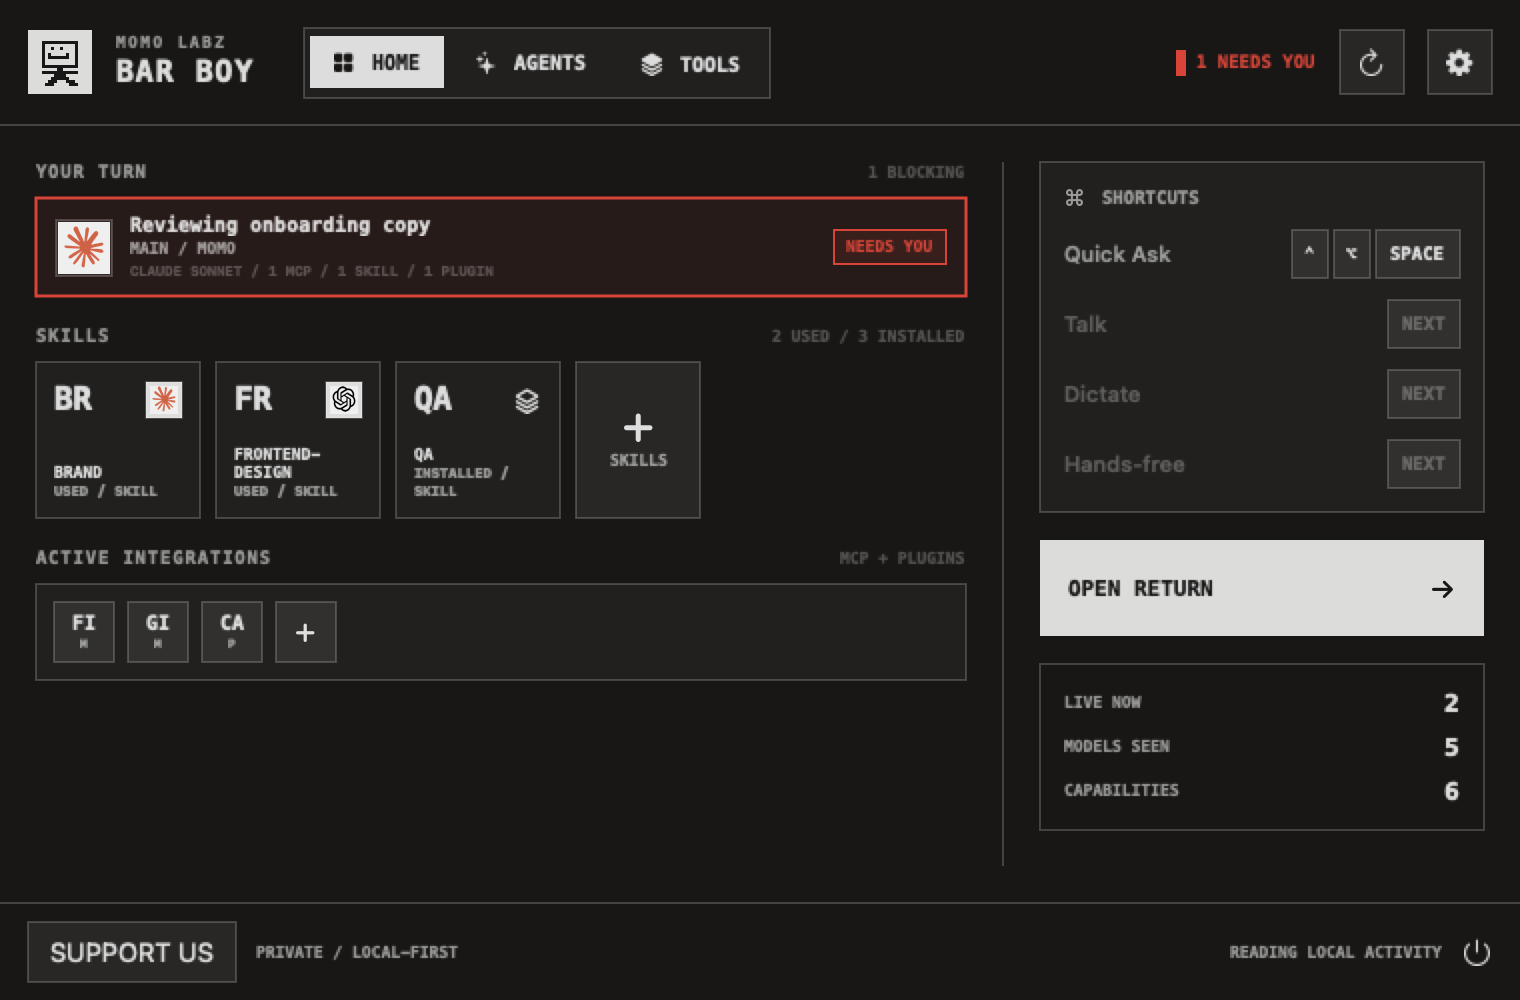
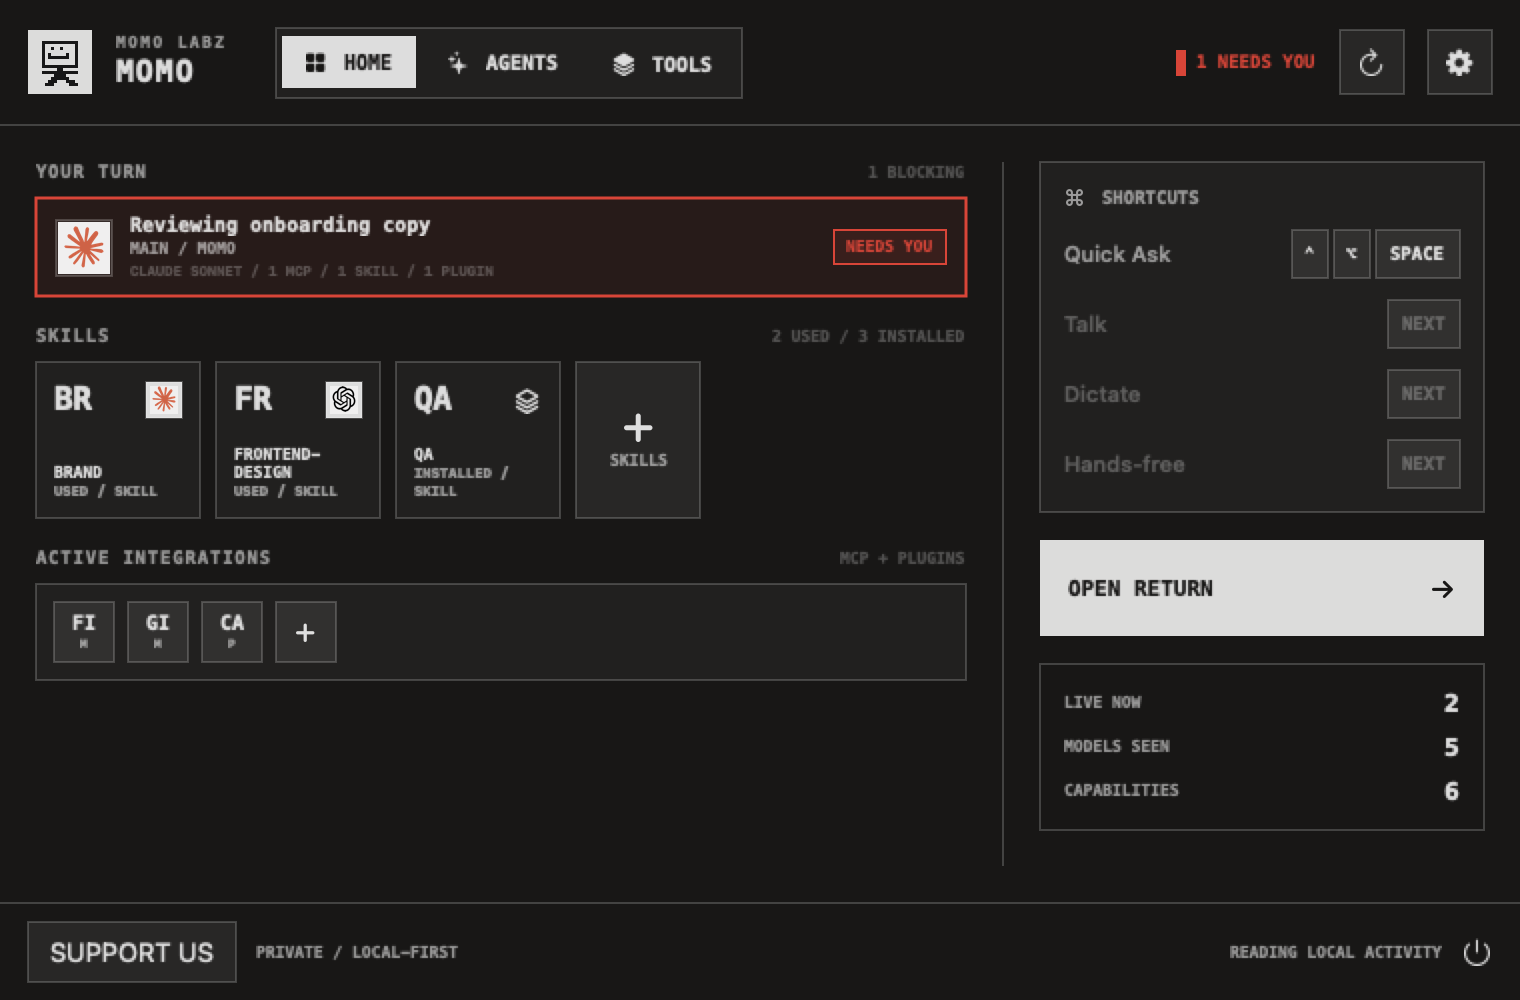
feat: rename the app to MOMO and compact the popup

Changed region(s): [[0.0618, 0.031, 0.3711, 0.093], [0.402, 0.031, 0.4947, 0.093]]

diff --git a/Sources/DashboardView.swift b/Sources/DashboardView.swift
@@ -65,7 +65,7 @@ struct DashboardView: View {
             PixelBarBoyMark(size: 32, tile: true)
             VStack(alignment: .leading, spacing: 1) {
                 Text("MOMO LABZ").font(BarBoyStyle.microLabel).tracking(1.35).foregroundStyle(.secondary)
-                Text("BAR BOY").font(BarBoyStyle.display).tracking(0.9)
+                Text("MOMO").font(BarBoyStyle.display).tracking(0.9)
             }
             HStack(spacing: 4) {
                 ForEach(DashboardTab.allCases) { item in
@@ -394,7 +394,7 @@ struct DashboardView: View {
                 Text(lastUpdateLabel.uppercased()).font(BarBoyStyle.microLabel).foregroundStyle(.secondary)
             }
             Button { NSApplication.shared.terminate(nil) } label: { Image(systemName: "power") }
-                .buttonStyle(.plain).help("Quit BAR BOY")
+                .buttonStyle(.plain).help("Quit MOMO")
         }
         .padding(.horizontal, 14)
         .frame(height: 48)
@@ -422,6 +422,8 @@ struct DashboardView: View {
 }
 
 struct CompactDashboardView: View {
+    static let canvasSize = CGSize(width: 430, height: 68)
+
     var refreshOnAppear = true
     var animateMomo = true
     @EnvironmentObject private var monitor: ActivityMonitor
@@ -432,41 +434,27 @@ struct CompactDashboardView: View {
         monitor.snapshots.filter { preferences.isEnabled($0.provider) }
     }
 
-    private var urgentCount: Int { snapshots.reduce(0) { $0 + $1.needsAttentionCount } }
-
     var body: some View {
-        VStack(spacing: 0) {
-            HStack(spacing: 10) {
-                AnimatedMomoMark(size: 28, animated: animateMomo)
-                VStack(alignment: .leading, spacing: 1) {
-                    Text("MOMO LABZ").font(BarBoyStyle.microLabel).tracking(1.2).foregroundStyle(.secondary)
-                    Text("MODELS").font(BarBoyStyle.display)
-                }
-                Spacer()
-                if urgentCount > 0 {
-                    Text("!\(urgentCount)").font(BarBoyStyle.alertLabel).foregroundStyle(BarBoyStyle.coral)
-                        .accessibilityLabel("\(urgentCount) sessions need you")
-                }
-                Button(action: expand) {
-                    Label("EXPAND", systemImage: "arrow.up.left.and.arrow.down.right")
-                        .font(BarBoyStyle.microLabel)
-                }
-                .barBoyButton()
-                .help("Open the full BAR BOY hub")
-            }
-            .padding(.horizontal, 12)
-            .frame(height: 52)
-
-            Rectangle().fill(BarBoyStyle.hairline).frame(height: 1)
-
+        HStack(spacing: 8) {
+            AnimatedMomoMark(size: 28, animated: animateMomo)
+                .help("MOMO by Momo Labz")
+            Rectangle().fill(BarBoyStyle.hairline).frame(width: 1, height: 36)
             HStack(spacing: 7) {
                 ForEach(snapshots) { snapshot in
                     CompactProviderCell(snapshot: snapshot)
                 }
             }
-            .padding(12)
+            .frame(maxWidth: .infinity)
+            Rectangle().fill(BarBoyStyle.hairline).frame(width: 1, height: 36)
+            Button(action: expand) {
+                Label("EXPAND", systemImage: "arrow.up.left.and.arrow.down.right")
+                    .font(BarBoyStyle.microLabel)
+            }
+            .barBoyButton()
+            .help("Open the full MOMO hub")
         }
-        .frame(width: 430, height: 154)
+        .padding(.horizontal, 9)
+        .frame(width: Self.canvasSize.width, height: Self.canvasSize.height)
         .background(BarBoyStyle.panel)
         .task { if refreshOnAppear { monitor.refresh() } }
     }
@@ -482,22 +470,28 @@ private struct CompactProviderCell: View {
     let snapshot: ProviderSnapshot
 
     var body: some View {
-        VStack(spacing: 5) {
+        VStack(spacing: 3) {
             ZStack(alignment: .topTrailing) {
-                ProviderMark(provider: snapshot.provider, size: 30, active: snapshot.activeCount > 0)
+                ProviderMark(provider: snapshot.provider, size: 25, active: snapshot.activeCount > 0)
                 if snapshot.needsAttentionCount > 0 {
-                    Rectangle().fill(BarBoyStyle.coral).frame(width: 5, height: 12).offset(x: 4, y: -3)
+                    Rectangle().fill(BarBoyStyle.coral).frame(width: 4, height: 10).offset(x: 3, y: -2)
                 }
             }
-            Text(snapshot.provider.name.uppercased()).font(BarBoyStyle.microLabel).lineLimit(1)
-            Text(snapshot.usageText.uppercased()).font(.system(size: 7, weight: .bold, design: .monospaced))
-                .foregroundStyle(.secondary).lineLimit(1)
+            Text(compactUsage)
+                .font(.system(size: 7, weight: .bold, design: .monospaced))
+                .foregroundStyle(snapshot.needsAttentionCount > 0 ? BarBoyStyle.coral : .secondary)
+                .lineLimit(1)
+                .minimumScaleFactor(0.72)
         }
-        .frame(maxWidth: .infinity, minHeight: 72)
-        .background(BarBoyStyle.surface)
-        .overlay(Rectangle().stroke(snapshot.needsAttentionCount > 0 ? BarBoyStyle.coral : BarBoyStyle.hairline, lineWidth: 1))
+        .frame(maxWidth: .infinity, minHeight: 44)
+        .contentShape(Rectangle())
+        .help("\(snapshot.provider.name): \(snapshot.usageText), \(snapshot.activeCount) active")
         .accessibilityElement(children: .ignore)
         .accessibilityLabel("\(snapshot.provider.name), \(snapshot.usageText), \(snapshot.activeCount) active")
+    }
+
+    private var compactUsage: String {
+        snapshot.isInstalled ? snapshot.usageText.uppercased() : "NO APP"
     }
 }
 

diff --git a/Tests/BarBoyTests.swift b/Tests/BarBoyTests.swift
@@ -6,6 +6,14 @@ import XCTest
 
 @MainActor
 final class BarBoyTests: XCTestCase {
+    func testMenuBarStatusIconIsVisibleTemplateArtwork() {
+        let icon = MenuBarLabelView.statusIcon
+
+        XCTAssertTrue(icon.isTemplate)
+        XCTAssertEqual(icon.size, NSSize(width: 18, height: 18))
+        XCTAssertFalse(icon.tiffRepresentation?.isEmpty ?? true)
+    }
+
     func testProviderCoverage() {
         XCTAssertEqual(AIProvider.allCases.map(\.name), ["Codex", "Claude", "Gemini", "Cursor", "Grok"])
         XCTAssertTrue(AIProvider.allCases.allSatisfy { !$0.sessionRoots.isEmpty })
@@ -331,7 +339,7 @@ final class BarBoyTests: XCTestCase {
     }
 
     func testRunningSessionWinsAgeLabel() {
-        let session = AgentSession(id: "1", provider: .claude, role: .subagent, title: "Test", detail: "", project: "BAR BOY", updatedAt: .distantPast, isRunning: true, processID: 123, tokens: nil)
+        let session = AgentSession(id: "1", provider: .claude, role: .subagent, title: "Test", detail: "", project: "MOMO", updatedAt: .distantPast, isRunning: true, processID: 123, tokens: nil)
         XCTAssertEqual(session.ageLabel, "LIVE")
     }
 
@@ -376,8 +384,8 @@ final class BarBoyTests: XCTestCase {
 
         let now = Date()
         let sessions = [
-            AgentSession(id: "codex-main", provider: .codex, role: .main, title: "Building the BAR BOY menu app", detail: "Implementing the local activity dashboard", project: "Bar-Boy", updatedAt: now, isRunning: true, processID: 88, tokens: 12_400, model: "GPT-5.6", mcpServers: ["github", "web"], skills: ["frontend-design"], plugins: []),
-            AgentSession(id: "codex-sub", provider: .codex, role: .subagent, title: "Verifying provider adapters", detail: "Checking local session discovery", project: "Bar-Boy", updatedAt: now, isRunning: true, processID: 89, tokens: 4_800, model: "GPT-5.6", mcpServers: [], skills: ["qa"], plugins: []),
+            AgentSession(id: "codex-main", provider: .codex, role: .main, title: "Building the MOMO menu app", detail: "Implementing the local activity dashboard", project: "MOMO", updatedAt: now, isRunning: true, processID: 88, tokens: 12_400, model: "GPT-5.6", mcpServers: ["github", "web"], skills: ["frontend-design"], plugins: []),
+            AgentSession(id: "codex-sub", provider: .codex, role: .subagent, title: "Verifying provider adapters", detail: "Checking local session discovery", project: "MOMO", updatedAt: now, isRunning: true, processID: 89, tokens: 4_800, model: "GPT-5.6", mcpServers: [], skills: ["qa"], plugins: []),
             AgentSession(id: "claude-main", provider: .claude, role: .main, title: "Reviewing onboarding copy", detail: "Recent local session", project: "Momo", updatedAt: now.addingTimeInterval(-420), isRunning: false, processID: nil, tokens: 31_200, attention: .needsInput, attentionReason: "Approve the revised copy", model: "Claude Sonnet", mcpServers: ["figma"], skills: ["brand"], plugins: ["Canva"])
         ]
         let snapshots = [
@@ -443,9 +451,9 @@ final class BarBoyTests: XCTestCase {
             .environmentObject(monitor)
             .environmentObject(preferences)
             .preferredColorScheme(preferredScheme)
-            .frame(width: 430, height: 154)
+            .frame(width: CompactDashboardView.canvasSize.width, height: CompactDashboardView.canvasSize.height)
         let hostingView = NSHostingView(rootView: view)
-        hostingView.frame = NSRect(x: 0, y: 0, width: 430, height: 154)
+        hostingView.frame = NSRect(origin: .zero, size: CompactDashboardView.canvasSize)
         hostingView.appearance = NSAppearance(named: preferredScheme == .dark ? .darkAqua : .aqua)
         hostingView.layoutSubtreeIfNeeded()
         guard let bitmap = hostingView.bitmapImageRepForCachingDisplay(in: hostingView.bounds) else {

diff --git a/Sources/SettingsView.swift b/Sources/SettingsView.swift
@@ -63,7 +63,7 @@ struct SettingsView: View {
                     }
                 }
             }
-            Text("BAR BOY will use OAuth 2.1 + PKCE for compatible remote MCP servers and Keychain for tokens. It will not import browser cookies or collect ChatGPT, Claude, Cursor, Gemini, or Grok passwords.")
+            Text("MOMO will use OAuth 2.1 + PKCE for compatible remote MCP servers and Keychain for tokens. It will not import browser cookies or collect ChatGPT, Claude, Cursor, Gemini, or Grok passwords.")
                 .font(.caption).foregroundStyle(.secondary)
         }
         .padding(24)
@@ -73,7 +73,7 @@ struct SettingsView: View {
         VStack(alignment: .leading, spacing: 16) {
             VStack(alignment: .leading, spacing: 4) {
                 Text("Local providers").font(.title2.bold())
-                Text("BAR BOY reads local session files and running processes. It never asks for your account password.")
+                Text("MOMO reads local session files and running processes. It never asks for your account password.")
                     .foregroundStyle(.secondary)
             }
             VStack(spacing: 8) {
@@ -154,7 +154,7 @@ struct SettingsView: View {
             }
 
             HStack(alignment: .top, spacing: 18) {
-                QRCodeView(value: deskDisplay.displayURL?.absoluteString ?? "BAR BOY")
+                QRCodeView(value: deskDisplay.displayURL?.absoluteString ?? "MOMO")
                     .frame(width: 132, height: 132)
                     .padding(10)
                     .background(Color.white)
@@ -251,7 +251,7 @@ struct SettingsView: View {
             Image(systemName: "lock.shield")
                 .font(.system(size: 38, weight: .light))
             Text("Your work stays on your Mac").font(.title2.bold())
-            Text("BAR BOY inspects running process names and recent local session metadata only for providers you enable. It does not upload prompts, source code, or usage data.")
+            Text("MOMO inspects running process names and recent local session metadata only for providers you enable. It does not upload prompts, source code, or usage data.")
                 .foregroundStyle(.secondary)
             Text("Disable a provider in the Providers tab to stop its process and file scanning and exclude it from Desk Display and MOMO RELAY status.")
                 .font(.callout)

diff --git a/Sources/DeskDisplayServer.swift b/Sources/DeskDisplayServer.swift
@@ -144,7 +144,7 @@ final class DeskDisplayServer: ObservableObject {
             guard headerAuthorized || cookieAuthorized else {
                 return Self.unauthorizedResponse()
             }
-            return Self.httpResponse(status: "200 OK", type: "text/plain; charset=utf-8", body: Data("BAR BOY OK".utf8))
+            return Self.httpResponse(status: "200 OK", type: "text/plain; charset=utf-8", body: Data("MOMO OK".utf8))
         }
 
         if (components.path == "/" || components.path == "/display"),
@@ -153,7 +153,7 @@ final class DeskDisplayServer: ObservableObject {
             return Self.httpResponse(
                 status: "303 See Other",
                 type: "text/plain; charset=utf-8",
-                body: Data("Continue to BAR BOY".utf8),
+                body: Data("Continue to MOMO".utf8),
                 extraHeaders: [
                     "Location: /display",
                     "Set-Cookie: barboy_key=\(token); Path=/; HttpOnly; SameSite=Strict; Max-Age=2592000"
@@ -269,7 +269,7 @@ final class DeskDisplayServer: ObservableObject {
         <html lang="en">
         <head>
         <meta charset="utf-8"><meta name="viewport" content="width=device-width,initial-scale=1,maximum-scale=1,user-scalable=no"><meta name="referrer" content="no-referrer">
-        <title>BAR BOY Desk Display</title>
+        <title>MOMO Desk Display</title>
         <style>
         :root{color-scheme:dark;--bg:#201e1d;--panel:#2d2b2b;--line:#66615e;--ink:#f3f2f2;--muted:#aaa5a2;--alert:#E25C48}
         *{box-sizing:border-box}html,body{width:100%;height:100%;margin:0;overflow:hidden;background:var(--bg);color:var(--ink);font-family:ui-monospace,"SFMono-Regular",Menlo,monospace}
@@ -336,7 +336,7 @@ final class DeskDisplayServer: ObservableObject {
             status: "401 Unauthorized",
             type: "text/plain; charset=utf-8",
             body: Data("Pairing credential required".utf8),
-            extraHeaders: ["WWW-Authenticate: Bearer realm=\"BAR BOY\""]
+            extraHeaders: ["WWW-Authenticate: Bearer realm=\"MOMO\""]
         )
     }
 

diff --git a/iOS/Sources/RelayModels.swift b/iOS/Sources/RelayModels.swift
@@ -23,8 +23,8 @@ extension RelayStatus {
         ],
         sessions: [
             .init(id: "1", provider: "Claude", mark: "A", role: "Main", title: "Choose the launch headline", project: "Momo", live: true, age: "LIVE", attention: "needsInput", attentionLabel: "NEEDS YOU", attentionReason: "The agent is waiting for your response", urgent: true, model: "Claude Sonnet", mcpServers: ["github"], skills: ["frontend-design"], plugins: [], capabilityCount: 2),
-            .init(id: "2", provider: "Codex", mark: "◎", role: "Subagent", title: "Approve release packaging", project: "BAR BOY", live: true, age: "LIVE", attention: "needsInput", attentionLabel: "NEEDS YOU", attentionReason: "Approval required before publishing", urgent: true, model: "GPT-5", mcpServers: ["github", "web"], skills: ["ship"], plugins: ["Codex Security"], capabilityCount: 4),
-            .init(id: "3", provider: "Cursor", mark: "C", role: "Main", title: "Refactoring the provider adapter", project: "BAR BOY", live: true, age: "LIVE", attention: "working", attentionLabel: "WORKING", attentionReason: nil, urgent: false, model: "Composer", mcpServers: [], skills: [], plugins: [], capabilityCount: 0)
+            .init(id: "2", provider: "Codex", mark: "◎", role: "Subagent", title: "Approve release packaging", project: "MOMO", live: true, age: "LIVE", attention: "needsInput", attentionLabel: "NEEDS YOU", attentionReason: "Approval required before publishing", urgent: true, model: "GPT-5", mcpServers: ["github", "web"], skills: ["ship"], plugins: ["Codex Security"], capabilityCount: 4),
+            .init(id: "3", provider: "Cursor", mark: "C", role: "Main", title: "Refactoring the provider adapter", project: "MOMO", live: true, age: "LIVE", attention: "working", attentionLabel: "WORKING", attentionReason: nil, urgent: false, model: "Composer", mcpServers: [], skills: [], plugins: [], capabilityCount: 0)
         ]
     )
 }

diff --git a/iOS/Sources/RelayRootView.swift b/iOS/Sources/RelayRootView.swift
@@ -46,7 +46,7 @@ private struct PairView: View {
             Text("Your agents return here.")
                 .font(.title3.weight(.semibold))
                 .padding(.top, 6)
-            Text("Paste the pairing address from BAR BOY on your Mac. Its one-time setup key is stored separately from the status address in this iPhone's Keychain.")
+            Text("Paste the pairing address from MOMO on your Mac. Its one-time setup key is stored separately from the status address in this iPhone's Keychain.")
                 .font(.callout)
                 .foregroundStyle(.secondary)
                 .padding(.top, 10)

diff --git a/Sources/MenuBarLabelView.swift b/Sources/MenuBarLabelView.swift
@@ -24,10 +24,10 @@ struct MenuBarLabelView: View {
         }
         .font(.system(size: 10, weight: .black, design: .monospaced))
         .monospacedDigit()
-        .accessibilityLabel("BAR BOY AI activity")
+        .accessibilityLabel("MOMO AI activity")
     }
 
-    private static let statusIcon: NSImage = {
+    static let statusIcon: NSImage = {
         let image = NSImage(size: NSSize(width: 18, height: 18), flipped: true) { bounds in
             NSColor.black.setFill()
             let scale = min(bounds.width, bounds.height) / 16

diff --git a/iOS/Sources/RelayStore.swift b/iOS/Sources/RelayStore.swift
@@ -46,7 +46,7 @@ final class RelayStore: ObservableObject {
 
     func connect() {
         guard let nextCredential = RelayCredential(pairingAddress: pairAddress) else {
-            connection = .offline("Paste the full pairing address from BAR BOY on your Mac.")
+            connection = .offline("Paste the full pairing address from MOMO on your Mac.")
             return
         }
         credential = nextCredential

diff --git a/Sources/Adapters/ProviderSessionAdapter.swift b/Sources/Adapters/ProviderSessionAdapter.swift
@@ -17,7 +17,7 @@ struct ProviderSessionContext: Sendable {
     }
 }
 
-/// Converts one provider-owned transcript into BAR BOY's shared session model.
+/// Converts one provider-owned transcript into MOMO's shared session model.
 ///
 /// Adapters must report unavailable fields as `nil`; they must not manufacture usage,
 /// model, provenance, or attention data that is absent from the provider's schema.

diff --git a/Shared/RelayContract.swift b/Shared/RelayContract.swift
@@ -1,6 +1,6 @@
 import Foundation
 
-/// The single transport contract shared by BAR BOY, MOMO RELAY, and the desk display.
+/// The single transport contract shared by MOMO, MOMO RELAY, and the desk display.
 /// Optional provenance fields keep 0.3 payloads decodable during the 0.4 migration.
 struct RelayStatus: Codable {
     static let currentSchemaVersion = 1

diff --git a/Sources/BarBoyApp.swift b/Sources/BarBoyApp.swift
@@ -30,7 +30,7 @@ struct BarBoyApp: App {
                 .environmentObject(attentionNotifier)
         }
 
-        Window("BAR BOY", id: "dashboard") {
+        Window("MOMO", id: "dashboard") {
             DashboardView()
                 .environmentObject(monitor)
                 .environmentObject(preferences)

diff --git a/README.md b/README.md
@@ -1,10 +1,15 @@
-# BAR BOY
+# MOMO
 
-BAR BOY is a working title for a private, local-first Momo Labz return queue. It keeps Codex, Claude, Gemini, Cursor, and Grok moving by gathering every question, approval, failure, and completed result in one place instead of making the human patrol five apps.
+MOMO is a private, local-first Momo Labz return queue. It keeps Codex, Claude, Gemini, Cursor, and Grok moving by gathering every question, approval, failure, and completed result in one place instead of making the human patrol five apps.
+
+<picture>
+  <source media="(prefers-color-scheme: dark)" srcset="Docs/momo-compact-dark.png">
+  <img alt="MOMO compact horizontal menu-bar strip" src="Docs/momo-compact-light.png" width="430">
+</picture>
 
 <picture>
   <source media="(prefers-color-scheme: dark)" srcset="Docs/barboy-dark.png">
-  <img alt="BAR BOY horizontal dashboard in light and dark mode" src="Docs/barboy-light.png" width="760">
+  <img alt="MOMO expanded horizontal dashboard" src="Docs/barboy-light.png" width="760">
 </picture>
 
 ## What works in 0.4
@@ -48,7 +53,7 @@ xcodebuild -project BarBoy.xcodeproj -scheme BarBoyMobile -destination 'generic/
 xcodebuild -project BarBoy.xcodeproj -scheme BarBoy -destination 'platform=macOS' BAR_BOY_REAL_DATA_CHECK=1 BAR_BOY_RENDER_SNAPSHOTS=1 test
 ```
 
-The unsigned development Mac app is created at `DerivedData/Build/Products/Release/BAR BOY.app`. The iOS target is source/build verified but requires the Momo Labz Apple Developer Team before it can be installed on a physical iPhone or distributed through TestFlight.
+The unsigned development Mac app is created at `DerivedData/Build/Products/Release/MOMO.app`. The iOS target is source/build verified but requires the Momo Labz Apple Developer Team before it can be installed on a physical iPhone or distributed through TestFlight.
 
 The real-data test prints aggregate counts and timings only. It never prints capability names, project paths, session titles, prompts, or transcript bodies. Snapshot fixtures are sanitized.
 
@@ -56,7 +61,7 @@ Release builds are universal binaries for Apple silicon and Intel Macs. The deve
 
 ## Product truth
 
-macOS has no supported public API that lets BAR BOY remove arbitrary third-party menu-bar items. Menu Calm opens Apple’s supported controls. Likewise, consumer subscription quota APIs are not consistently public, so unlinked short/week quota cells show an honest dash, official usage pages remain one click away, and local token counts are labeled as local.
+macOS has no supported public API that lets MOMO remove arbitrary third-party menu-bar items. Menu Calm opens Apple’s supported controls. Likewise, consumer subscription quota APIs are not consistently public, so unlinked short/week quota cells show an honest dash, official usage pages remain one click away, and local token counts are labeled as local.
 
 OpenAI and Anthropic expose organization API usage endpoints using administrative credentials; those are different from personal ChatGPT and Claude subscription quotas. Version 0.4 maps those access paths but does not collect credentials or claim an account is connected. Remote MCP authorization is designed for OAuth 2.1 + PKCE and provider tokens belong in Keychain.
 
